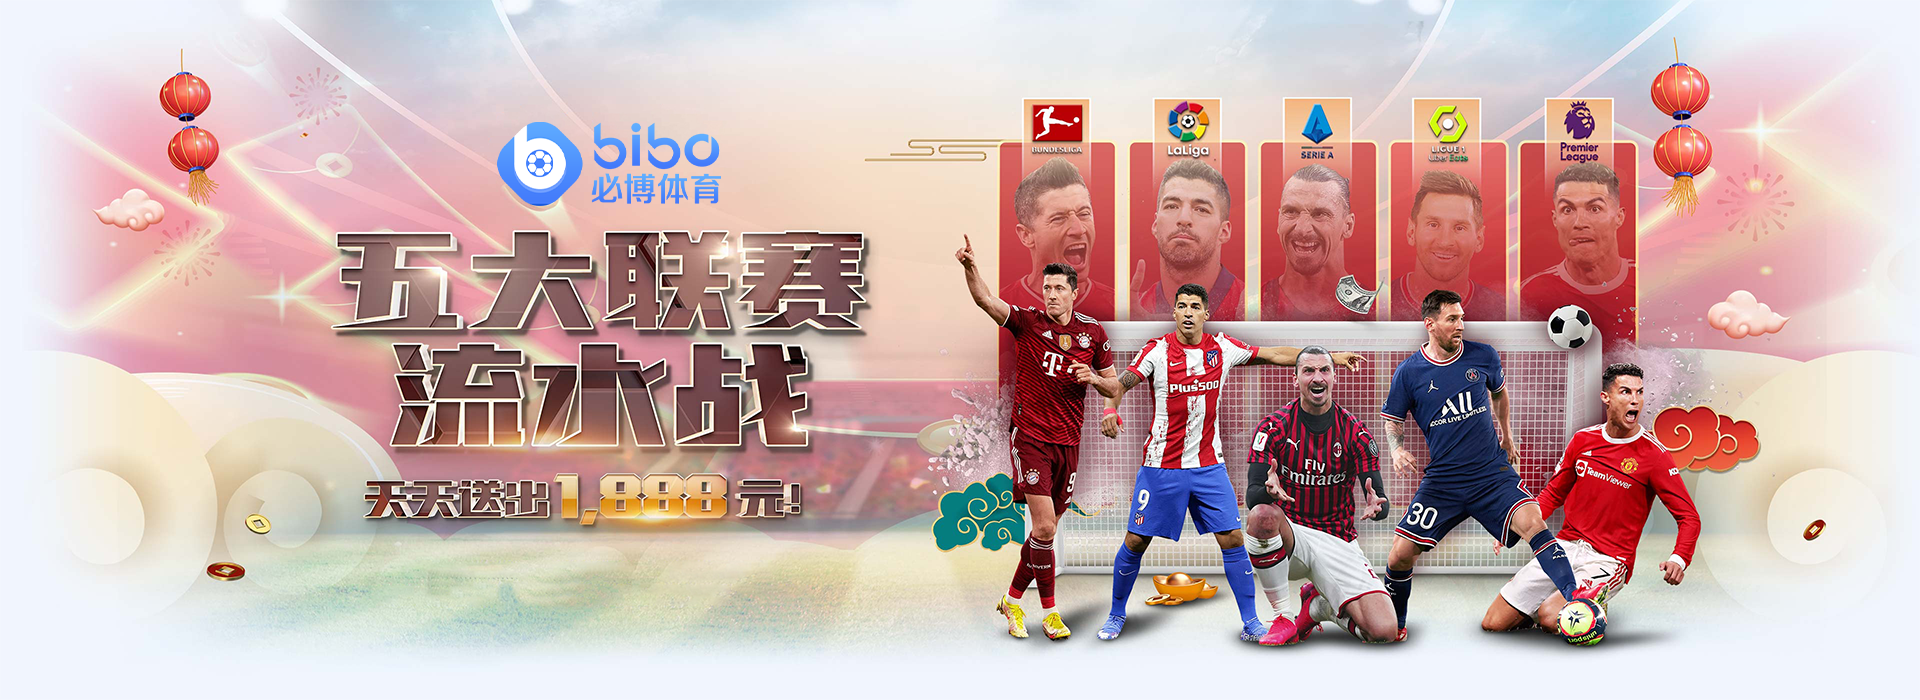
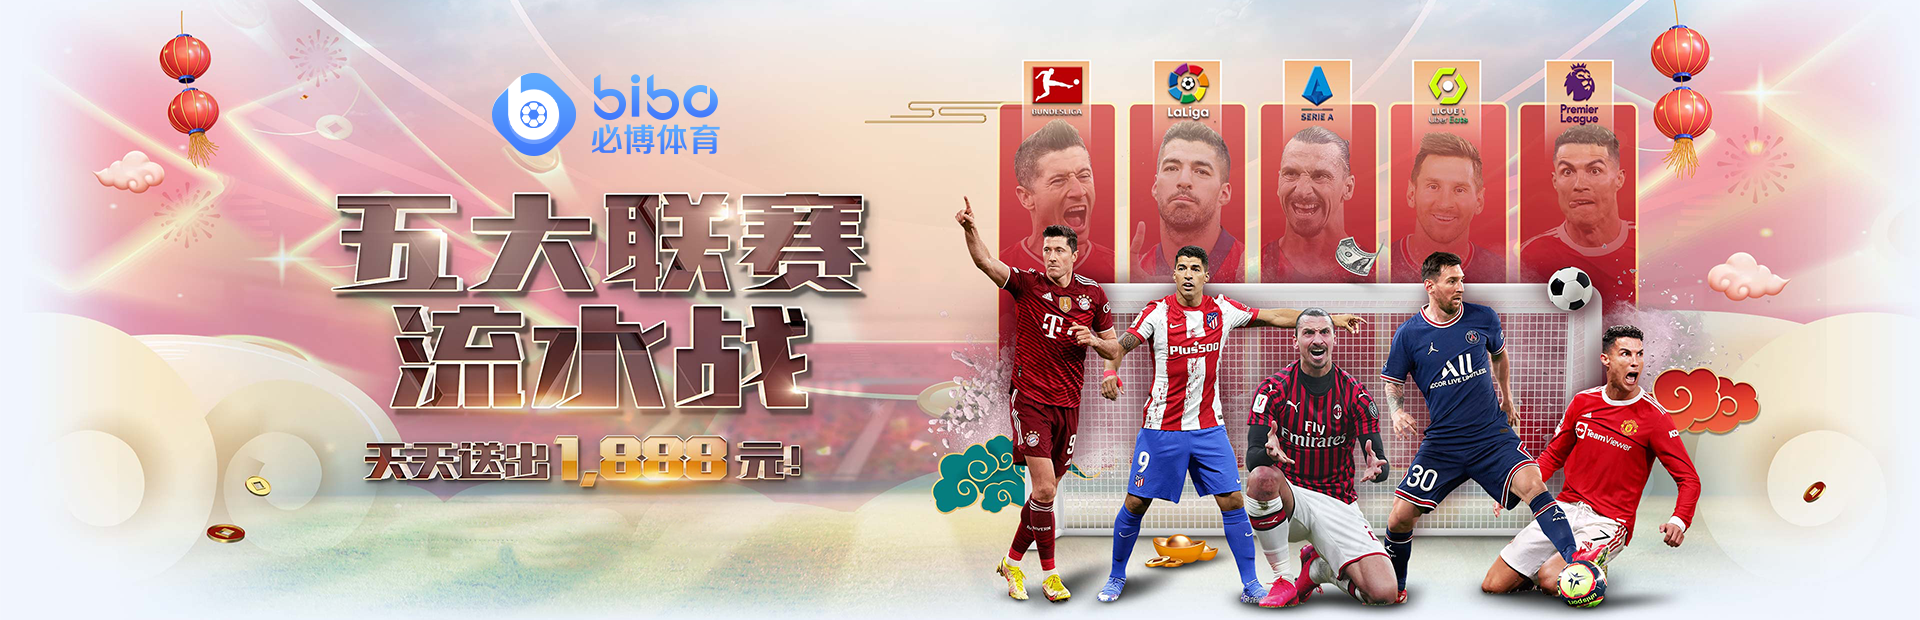
ybty

diff --git a/ybty/css/pc.css b/ybty/css/pc.css
@@ -52,7 +52,7 @@ a {
 .ban{
     width: 100%;
     max-width: 1920px;
-    height: 700px;
+    height: 620px;
     background: url(../images/pc/10017.png) no-repeat center center;
     background-size: 100% 100%;
 }
@@ -114,6 +114,8 @@ a {
     width: 945px;
     margin: 36px auto 0;
     display: flex;
+    flex-wrap: wrap; 
+    justify-content: space-evenly;
 }
 .yb-sport li{
     width: 295px;
@@ -142,7 +144,6 @@ a {
 }
 .sport2{
     background-image: url(../images/pc/a2.png);
-    margin: 0 20px;
 }
 .sport3{
     background-image: url(../images/pc/a3.png);
